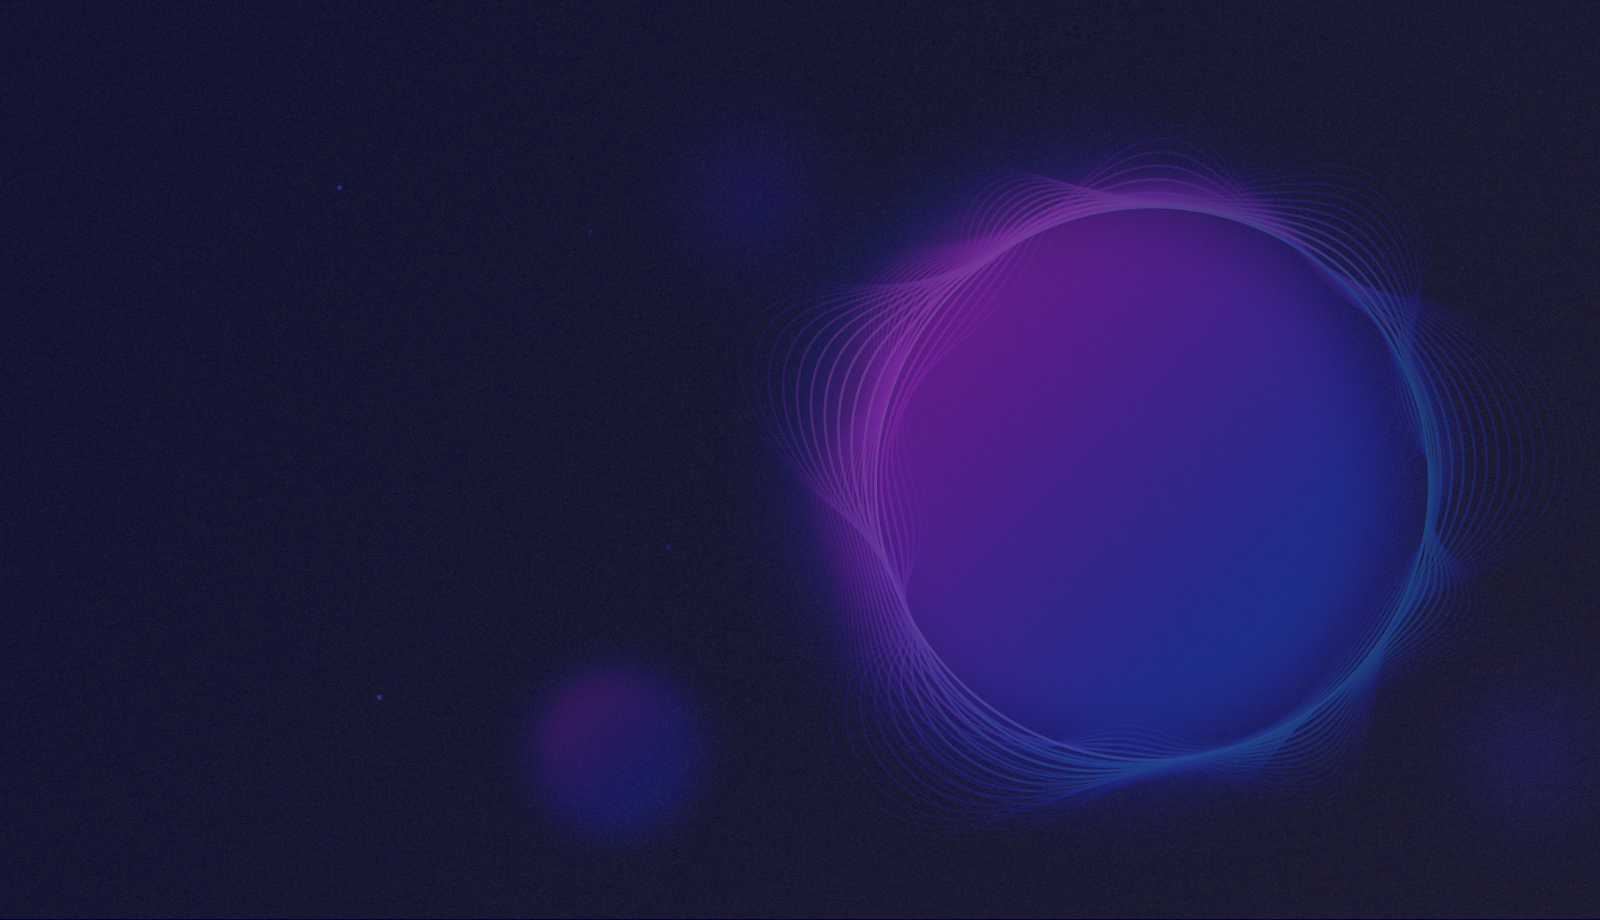
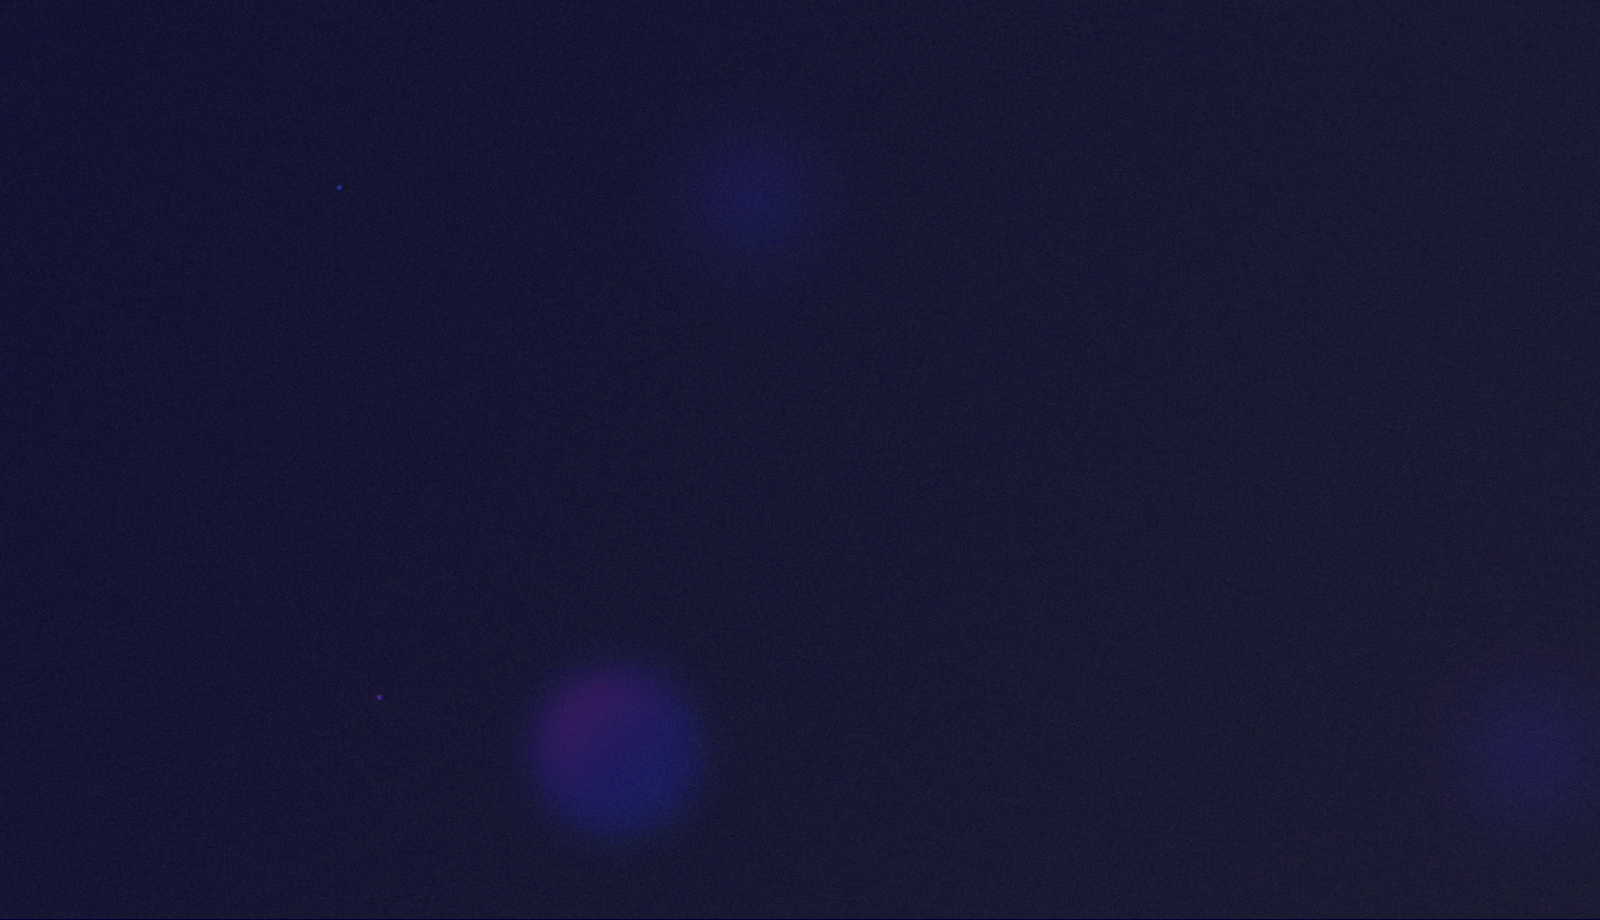
Complete firt slide

Changed region(s): [[0.4688, 0.1522, 0.9688, 0.8826]]

diff --git a/dist/css/style.min.css b/dist/css/style.min.css
@@ -1,1 +1,1 @@
-@charset "UTF-8";@import url(https://fonts.googleapis.com/css?family=Roboto:100,100italic,300,300italic,regular,italic,500,500italic,700,700italic,900,900italic&display=swap&subset=cyrillic-ext);@font-face{font-family:HelveticaNeueCyr;font-display:swap;src:url(../fonts/HelveticaNeueCyr-Bold.woff) format("woff"),url(../fonts/HelveticaNeueCyr-Bold.woff2) format("woff2");font-weight:700;font-style:normal}@font-face{font-family:HelveticaNeueCyr;font-display:swap;src:url(../fonts/HelveticaNeueCyr-Roman.woff) format("woff"),url(../fonts/HelveticaNeueCyr-Roman.woff2) format("woff2");font-weight:400;font-style:normal}@font-face{font-family:NeueMachina;font-display:swap;src:url(../fonts/NeueMachina-Bold.woff) format("woff"),url(../fonts/NeueMachina-Bold.woff2) format("woff2");font-weight:700;font-style:normal}@font-face{font-family:NeueMachina;font-display:swap;src:url(../fonts/NeueMachina-Regular.woff) format("woff"),url(../fonts/NeueMachina-Regular.woff2) format("woff2");font-weight:400;font-style:normal}@font-face{font-family:Roboto;font-display:swap;src:url(../fonts/Roboto-Black.woff) format("woff"),url(../fonts/Roboto-Black.woff2) format("woff2");font-weight:400;font-style:normal}@font-face{font-family:Roboto;font-display:swap;src:url(../fonts/Roboto-Bold.woff) format("woff"),url(../fonts/Roboto-Bold.woff2) format("woff2");font-weight:700;font-style:normal}*,::after,::before{-webkit-box-sizing:border-box;box-sizing:border-box}ol[class],ul[class]{padding:0}blockquote,body,dd,dl,figcaption,figure,h1,h2,h3,h4,li,ol[class],p,ul[class]{margin:0}body{min-height:100vh;scroll-behavior:smooth;text-rendering:optimizeSpeed;line-height:1.5}ol[class],ul[class]{list-style:none}a:not([class]){-webkit-text-decoration-skip:ink;text-decoration-skip-ink:auto}img{max-width:100%;display:block}article>*+*{margin-top:1em}button,input,select,textarea{font:inherit}.wrapper{width:100%;min-height:100%;overflow:hidden;display:-webkit-box;display:-ms-flexbox;display:flex;-webkit-box-orient:vertical;-webkit-box-direction:normal;-ms-flex-direction:column;flex-direction:column}.container{max-width:1240px;margin:0 auto}html{font-size:10px}body{font-size:1.6rem;font-family:HelveticaNeueCyr}.header{height:100px;margin-top:1.5rem;display:-webkit-box;display:-ms-flexbox;display:flex;-webkit-box-pack:center;-ms-flex-pack:center;justify-content:center;-webkit-box-align:center;-ms-flex-align:center;align-items:center;font-family:NeueMachina;position:fixed;width:100%}.header button{outline:0;cursor:pointer}.header__body{width:100%;display:-webkit-box;display:-ms-flexbox;display:flex;-webkit-box-pack:justify;-ms-flex-pack:justify;justify-content:space-between;-webkit-box-align:center;-ms-flex-align:center;align-items:center}.header__left{display:-webkit-box;display:-ms-flexbox;display:flex;-webkit-box-pack:center;-ms-flex-pack:center;justify-content:center}.header__logo{margin:0 3.2rem 0 4.3rem;display:-webkit-box;display:-ms-flexbox;display:flex;-webkit-box-orient:vertical;-webkit-box-direction:normal;-ms-flex-direction:column;flex-direction:column;-webkit-box-pack:center;-ms-flex-pack:center;justify-content:center;-webkit-box-align:center;-ms-flex-align:center;align-items:center}.header__logo span{color:#fff}.header__language{display:-webkit-box;display:-ms-flexbox;display:flex;-webkit-box-pack:center;-ms-flex-pack:center;justify-content:center;-webkit-box-align:center;-ms-flex-align:center;align-items:center}.header__language button{padding:1.1rem;background-color:transparent;border:none;color:#fff;font-size:2.2rem;font-weight:700;line-height:2rem}.header__language button:disabled{opacity:.3}.header__right{display:-webkit-box;display:-ms-flexbox;display:flex;-webkit-box-pack:center;-ms-flex-pack:center;justify-content:center;-webkit-box-align:center;-ms-flex-align:center;align-items:center}.header__phoneNumber{padding:0 5.2rem}.header__phoneNumber a{text-decoration:none;color:#fff;font-size:2.2rem;line-height:2.1rem;letter-spacing:.12rem}.header__button button{margin-top:-.1rem;background-color:transparent;border:solid 1px #fff;color:#fff;padding:2.2rem 4.4rem;border-radius:50px;font-size:1.4rem;line-height:1.3rem;text-transform:uppercase;letter-spacing:.18rem;font-family:HelveticaNeueCyr}.header__burger{width:6.6rem;height:6.6rem;border-radius:50%;margin:0 4.4rem;position:relative;-webkit-box-sizing:border-box;box-sizing:border-box;display:-webkit-box;display:-ms-flexbox;display:flex;-webkit-box-orient:vertical;-webkit-box-direction:normal;-ms-flex-direction:column;flex-direction:column;-webkit-box-pack:center;-ms-flex-pack:center;justify-content:center;-webkit-box-align:center;-ms-flex-align:center;align-items:center;cursor:pointer}.header__burger .border{width:6.6rem;height:6.6rem;border:3px solid #1e4fc6;border-radius:50%;position:absolute;z-index:1}.header__burger::after,.header__burger::before{content:"";display:block;-webkit-box-sizing:border-box;box-sizing:border-box;width:6.6rem;height:6.6rem;border-radius:50%;position:absolute;border:3px solid #15379a;z-index:0}.header__burger::after{top:.5rem;left:-.3rem}.header__burger::before{top:-.3rem;left:.4rem}.header__burger span{display:block;background-color:#fff;height:.2rem;margin:.4rem 0}.header__burger span:first-of-type{width:3.6rem}.header__burger span:last-of-type{width:2.4rem;margin-left:1.1rem}.slide1{min-height:100vh;background-image:url(../img/background.png);background-color:#000032;background-repeat:no-repeat;background-position:center;background-size:cover}@media (max-width:1252px){.container{max-width:970px}}@media (max-width:991.98px){.container{max-width:750px}}@media (max-width:767.98px){.container{max-width:none;padding:0 10px}}@media (prefers-reduced-motion:reduce){*{-webkit-animation-duration:0s!important;animation-duration:0s!important;-webkit-animation-iteration-count:1!important;animation-iteration-count:1!important;-webkit-transition-duration:0s!important;-o-transition-duration:0s!important;transition-duration:0s!important;scroll-behavior:auto!important}}
+@charset "UTF-8";@import url(https://fonts.googleapis.com/css?family=Roboto:100,100italic,300,300italic,regular,italic,500,500italic,700,700italic,900,900italic&display=swap&subset=cyrillic-ext);@font-face{font-family:HelveticaNeueCyr;font-display:swap;src:url(../fonts/HelveticaNeueCyr-Bold.woff) format("woff"),url(../fonts/HelveticaNeueCyr-Bold.woff2) format("woff2");font-weight:700;font-style:normal}@font-face{font-family:HelveticaNeueCyr;font-display:swap;src:url(../fonts/HelveticaNeueCyr-Roman.woff) format("woff"),url(../fonts/HelveticaNeueCyr-Roman.woff2) format("woff2");font-weight:400;font-style:normal}@font-face{font-family:NeueMachina;font-display:swap;src:url(../fonts/NeueMachina-Bold.woff) format("woff"),url(../fonts/NeueMachina-Bold.woff2) format("woff2");font-weight:700;font-style:normal}@font-face{font-family:NeueMachina;font-display:swap;src:url(../fonts/NeueMachina-Regular.woff) format("woff"),url(../fonts/NeueMachina-Regular.woff2) format("woff2");font-weight:400;font-style:normal}@font-face{font-family:Roboto;font-display:swap;src:url(../fonts/Roboto-Black.woff) format("woff"),url(../fonts/Roboto-Black.woff2) format("woff2");font-weight:400;font-style:normal}@font-face{font-family:Roboto;font-display:swap;src:url(../fonts/Roboto-Bold.woff) format("woff"),url(../fonts/Roboto-Bold.woff2) format("woff2");font-weight:700;font-style:normal}*,::after,::before{-webkit-box-sizing:border-box;box-sizing:border-box}ol[class],ul[class]{padding:0}blockquote,body,dd,dl,figcaption,figure,h1,h2,h3,h4,li,ol[class],p,ul[class]{margin:0}body{min-height:100vh;scroll-behavior:smooth;text-rendering:optimizeSpeed;line-height:1.5}ol[class],ul[class]{list-style:none}a:not([class]){-webkit-text-decoration-skip:ink;text-decoration-skip-ink:auto}img{max-width:100%;display:block}article>*+*{margin-top:1em}button,input,select,textarea{font:inherit}.wrapper{width:100%;min-height:100%;overflow:hidden;display:-webkit-box;display:-ms-flexbox;display:flex;-webkit-box-orient:vertical;-webkit-box-direction:normal;-ms-flex-direction:column;flex-direction:column}.container{max-width:1240px;margin:0 auto}html{font-size:10px}body{font-size:1.6rem;font-family:HelveticaNeueCyr}.header{height:100px;margin-top:1.5rem;display:-webkit-box;display:-ms-flexbox;display:flex;-webkit-box-pack:center;-ms-flex-pack:center;justify-content:center;-webkit-box-align:center;-ms-flex-align:center;align-items:center;font-family:NeueMachina;position:fixed;width:100%}.header button{outline:0;cursor:pointer}.header__body{width:100%;display:-webkit-box;display:-ms-flexbox;display:flex;-webkit-box-pack:justify;-ms-flex-pack:justify;justify-content:space-between;-webkit-box-align:center;-ms-flex-align:center;align-items:center}.header__left{display:-webkit-box;display:-ms-flexbox;display:flex;-webkit-box-pack:center;-ms-flex-pack:center;justify-content:center}.header__logo{margin:0 3.2rem 0 4.3rem;display:-webkit-box;display:-ms-flexbox;display:flex;-webkit-box-orient:vertical;-webkit-box-direction:normal;-ms-flex-direction:column;flex-direction:column;-webkit-box-pack:center;-ms-flex-pack:center;justify-content:center;-webkit-box-align:center;-ms-flex-align:center;align-items:center}.header__logo span{color:#fff}.header__language{display:-webkit-box;display:-ms-flexbox;display:flex;-webkit-box-pack:center;-ms-flex-pack:center;justify-content:center;-webkit-box-align:center;-ms-flex-align:center;align-items:center}.header__language button{padding:1.1rem;background-color:transparent;border:none;color:#fff;font-size:2.2rem;font-weight:700;line-height:2rem}.header__language button:disabled{opacity:.3}.header__right{display:-webkit-box;display:-ms-flexbox;display:flex;-webkit-box-pack:center;-ms-flex-pack:center;justify-content:center;-webkit-box-align:center;-ms-flex-align:center;align-items:center}.header__phoneNumber{padding:0 5.2rem}.header__phoneNumber a{text-decoration:none;color:#fff;font-size:2.2rem;line-height:2.1rem;letter-spacing:.12rem}.header__button button{margin-top:-.1rem;background-color:transparent;border:solid 1px #fff;color:#fff;padding:2.2rem 4.4rem;border-radius:50px;font-size:1.4rem;line-height:1.3rem;text-transform:uppercase;letter-spacing:.18rem;font-family:HelveticaNeueCyr}.header__burger{width:6.6rem;height:6.6rem;border-radius:50%;margin:0 4.4rem;position:relative;-webkit-box-sizing:border-box;box-sizing:border-box;display:-webkit-box;display:-ms-flexbox;display:flex;-webkit-box-orient:vertical;-webkit-box-direction:normal;-ms-flex-direction:column;flex-direction:column;-webkit-box-pack:center;-ms-flex-pack:center;justify-content:center;-webkit-box-align:center;-ms-flex-align:center;align-items:center;cursor:pointer}.header__burger .border{width:6.6rem;height:6.6rem;border:3px solid #1e4fc6;border-radius:50%;position:absolute;z-index:1}.header__burger::after,.header__burger::before{content:"";display:block;-webkit-box-sizing:border-box;box-sizing:border-box;width:6.6rem;height:6.6rem;border-radius:50%;position:absolute;border:3px solid #15379a;z-index:0}.header__burger::after{top:.5rem;left:-.3rem}.header__burger::before{top:-.3rem;left:.4rem}.header__burger span{display:block;background-color:#fff;height:.2rem;margin:.4rem 0}.header__burger span:first-of-type{width:3.6rem}.header__burger span:last-of-type{width:2.4rem;margin-left:1.1rem}.slide1{min-height:100vh;background:url(../img/vr.png) right center no-repeat,url(../img/background.png) center/cover no-repeat;font-family:NeueMachina;color:#fff}.slide1 .container{margin:0 auto;padding:0 10rem;max-width:none}.slide1__section{display:-webkit-box;display:-ms-flexbox;display:flex;-webkit-box-orient:vertical;-webkit-box-direction:normal;-ms-flex-direction:column;flex-direction:column;-webkit-box-pack:end;-ms-flex-pack:end;justify-content:flex-end;margin:auto;height:100vh}.slide1__top{display:-webkit-box;display:-ms-flexbox;display:flex;-webkit-box-pack:justify;-ms-flex-pack:justify;justify-content:space-between;margin-bottom:5rem;letter-spacing:-.1rem}.slide1__text{margin-bottom:22.5rem}.slide1__title{font-size:7.1rem;line-height:7.1rem;display:block}.slide1__title--first{margin-bottom:.5rem}.slide1__title--second{margin-left:5.5rem;white-space:nowrap}.slide1__title--second>span{font-weight:700;position:relative}.slide1__title--second>span span{z-index:1;position:relative}.slide1__title--second>span span:last-of-type{font-weight:400}.slide1__title--second>span::before{content:"VR/AR";display:block;position:absolute;color:rgba(2,203,203,.4);top:2px;left:-3px}.slide1__title--second>span::after{content:"VR/AR";display:block;position:absolute;color:rgba(250,51,46,.4);left:3px;top:-2px}.slide1__description{font-size:1.7rem;line-height:2.4rem;color:rgba(255,255,255,.8);font-family:HelveticaNeueCyr;text-transform:uppercase;font-weight:400;display:block;margin-top:5rem;margin-left:5rem;letter-spacing:.069rem}.slide1__img{background:url(../img/vr.png)}.slide1__bottom{font-family:HelveticaNeueCyr;font-weight:700;font-size:1.4rem;-ms-flex-item-align:start;align-self:flex-start;margin-bottom:5.1rem}.slide1__bottom span{padding-left:2rem;letter-spacing:.13rem;margin-left:3rem;position:relative;text-transform:uppercase}.slide1__bottom span:last-of-type{margin-left:4rem}.slide1__bottom span::before{position:absolute;content:"/";color:#1e4fc6;left:0;top:-1rem;font-size:2rem}@media (max-width:1252px){.container{max-width:970px}}@media (max-width:991.98px){.container{max-width:750px}}@media (max-width:767.98px){.container{max-width:none;padding:0 10px}}@media (prefers-reduced-motion:reduce){*{-webkit-animation-duration:0s!important;animation-duration:0s!important;-webkit-animation-iteration-count:1!important;animation-iteration-count:1!important;-webkit-transition-duration:0s!important;-o-transition-duration:0s!important;transition-duration:0s!important;scroll-behavior:auto!important}}

diff --git a/dist/css/style.css b/dist/css/style.css
@@ -365,11 +365,139 @@ body {
 
 .slide1 {
   min-height: 100vh;
-  background-image: url("../img/background.png");
-  background-color: #000032;
-  background-repeat: no-repeat;
-  background-position: center;
-  background-size: cover;
+  background: url(../img/vr.png) right center no-repeat, url(../img/background.png) center/cover no-repeat;
+  font-family: "NeueMachina";
+  color: #ffffff;
+}
+
+.slide1 .container {
+  margin: 0 auto;
+  padding: 0 10rem;
+  max-width: none;
+}
+
+.slide1__section {
+  display: -webkit-box;
+  display: -ms-flexbox;
+  display: flex;
+  -webkit-box-orient: vertical;
+  -webkit-box-direction: normal;
+      -ms-flex-direction: column;
+          flex-direction: column;
+  -webkit-box-pack: end;
+      -ms-flex-pack: end;
+          justify-content: flex-end;
+  margin: auto;
+  height: 100vh;
+}
+
+.slide1__top {
+  display: -webkit-box;
+  display: -ms-flexbox;
+  display: flex;
+  -webkit-box-pack: justify;
+      -ms-flex-pack: justify;
+          justify-content: space-between;
+  margin-bottom: 5rem;
+  letter-spacing: -0.1rem;
+}
+
+.slide1__text {
+  margin-bottom: 22.5rem;
+}
+
+.slide1__title {
+  font-size: 7.1rem;
+  line-height: 7.1rem;
+  display: block;
+}
+
+.slide1__title--first {
+  margin-bottom: 0.5rem;
+}
+
+.slide1__title--second {
+  margin-left: 5.5rem;
+  white-space: nowrap;
+}
+
+.slide1__title--second > span {
+  font-weight: bold;
+  position: relative;
+}
+
+.slide1__title--second > span span {
+  z-index: 1;
+  position: relative;
+}
+
+.slide1__title--second > span span:last-of-type {
+  font-weight: normal;
+}
+
+.slide1__title--second > span::before {
+  content: "VR/AR";
+  display: block;
+  position: absolute;
+  color: rgba(2, 203, 203, 0.4);
+  top: 2px;
+  left: -3px;
+}
+
+.slide1__title--second > span::after {
+  content: "VR/AR";
+  display: block;
+  position: absolute;
+  color: rgba(250, 51, 46, 0.4);
+  left: 3px;
+  top: -2px;
+}
+
+.slide1__description {
+  font-size: 1.7rem;
+  line-height: 2.4rem;
+  color: rgba(255, 255, 255, 0.8);
+  font-family: "HelveticaNeueCyr";
+  text-transform: uppercase;
+  font-weight: normal;
+  display: block;
+  margin-top: 5rem;
+  margin-left: 5rem;
+  letter-spacing: 0.069rem;
+}
+
+.slide1__img {
+  background: url(../img/vr.png);
+}
+
+.slide1__bottom {
+  font-family: "HelveticaNeueCyr";
+  font-weight: bold;
+  font-size: 1.4rem;
+  -ms-flex-item-align: start;
+      align-self: flex-start;
+  margin-bottom: 5.1rem;
+}
+
+.slide1__bottom span {
+  padding-left: 2rem;
+  letter-spacing: 0.13rem;
+  margin-left: 3rem;
+  position: relative;
+  text-transform: uppercase;
+}
+
+.slide1__bottom span:last-of-type {
+  margin-left: 4rem;
+}
+
+.slide1__bottom span::before {
+  position: absolute;
+  content: "/";
+  color: #1e4fc6;
+  left: 0;
+  top: -1rem;
+  font-size: 2rem;
 }
 
 @media (max-width: 1252px) {

diff --git a/#src/scss/slide1.scss b/#src/scss/slide1.scss
@@ -1,8 +1,131 @@
 .slide1 {
 	min-height: 100vh;
-	background-image: url("../img/background.png");
-	background-color: #000032;
-	background-repeat: no-repeat;
-	background-position: center;
-	background-size: cover;
+	background: url(../img/vr.png) right center no-repeat, url(../img/background.png) center / cover no-repeat;
+	// background-image: url("../img/background.png");
+	// background-color: #000032;
+	// background-repeat: no-repeat;
+	// background-position: center;
+	// background-size: cover;
+	font-family: $fontSecond;
+	color: #ffffff;
+
+	.container {
+		margin: 0 auto;
+		padding: 0 10rem;
+		max-width: none;
+	}
+
+	&__section {
+		display: flex;
+		flex-direction: column;
+		justify-content: flex-end;
+		margin: auto;
+		height: 100vh;
+	}
+
+	&__top {
+		display: flex;
+		justify-content: space-between;
+		margin-bottom: 5rem;
+		letter-spacing: -0.1rem;
+	}
+
+	&__text {
+		margin-bottom: 22.5rem;
+	}
+
+	&__title {
+		font-size: 7.1rem;
+		line-height: 7.1rem;
+		display: block;
+
+		&--first {
+			margin-bottom: 0.5rem;
+		}
+
+		&--second {
+			margin-left: 5.5rem;
+			white-space: nowrap;
+
+			> span {
+				font-weight: bold;
+				position: relative;
+
+				span {
+					// position: absolute;
+					z-index: 1;
+					position: relative;
+
+					&:last-of-type {
+						font-weight: normal;
+					}
+				}
+
+				&::before {
+					content: "VR/AR";
+					display: block;
+					position: absolute;
+					color: rgba(#02cbcb, 0.4);
+					top: 2px;
+					left: -3px;
+				}
+
+				&::after {
+					content: "VR/AR";
+					display: block;
+					position: absolute;
+					color: rgba(#fa332e, 0.4);
+					left: 3px;
+					top: -2px;
+				}
+			}
+		}
+	}
+
+	&__description {
+		font-size: 1.7rem;
+		line-height: 2.4rem;
+		color: rgba(#fff, 0.8);
+		font-family: $fontFirst;
+		text-transform: uppercase;
+		font-weight: normal;
+		display: block;
+		margin-top: 5rem;
+		margin-left: 5rem;
+		letter-spacing: 0.069rem;
+	}
+
+	&__img {
+		// margin-bottom: 2.8rem;
+		background: url(../img/vr.png);
+	}
+
+	&__bottom {
+		font-family: $fontFirst;
+		font-weight: bold;
+		font-size: 1.4rem;
+		align-self: flex-start;
+		margin-bottom: 5.1rem;
+
+		span {
+			padding-left: 2rem;
+			letter-spacing: 0.13rem;
+			margin-left: 3rem;
+			position: relative;
+			text-transform: uppercase;
+
+			&:last-of-type {
+				margin-left: 4rem;
+			}
+
+			&::before {
+				position: absolute;
+				content: "/";
+				color: #1e4fc6;
+				left: 0;
+				top: -1rem;
+				font-size: 2rem;
+			}
+		}
+	}
 }

diff --git a/dist/index.html b/dist/index.html
@@ -45,7 +45,32 @@
 			<section class="slide1">
 	<div class="container">
 		<div class="slide1__section">
-
+			<div class="slide1__top">
+				<div class="slide1__text">
+					<span class="slide1__title slide1__title--first">
+						РАЗРАБОТКА
+					</span>
+					<span class="slide1__title slide1__title--second">
+						<span>
+							<span>VR/AR</span>
+							<span>ПРОЕКТОВ</span>
+						</span>
+					</span>
+					<span class="slide1__description">Моделирование и визуализация 3D-объектов<br> в формате виртуальной
+						реальности</span>
+				</div>
+				<div class="slide1__img">
+					<!-- <img src="img/vr.png" alt="vr"> -->
+				</div>
+			</div>
+			<div class="slide1__bottom">
+				<span>
+					Участники фестиваля круг света
+				</span>
+				<span>
+					Cертификат iso 9001
+				</span>
+			</div>
 		</div>
 	</div>
 </section>

diff --git a/#src/_slide1.html b/#src/_slide1.html
@@ -1,7 +1,32 @@
 <section class="slide1">
 	<div class="container">
 		<div class="slide1__section">
-
+			<div class="slide1__top">
+				<div class="slide1__text">
+					<span class="slide1__title slide1__title--first">
+						РАЗРАБОТКА
+					</span>
+					<span class="slide1__title slide1__title--second">
+						<span>
+							<span>VR/AR</span>
+							<span>ПРОЕКТОВ</span>
+						</span>
+					</span>
+					<span class="slide1__description">Моделирование и визуализация 3D-объектов<br> в формате виртуальной
+						реальности</span>
+				</div>
+				<div class="slide1__img">
+					<!-- <img src="img/vr.png" alt="vr"> -->
+				</div>
+			</div>
+			<div class="slide1__bottom">
+				<span>
+					Участники фестиваля круг света
+				</span>
+				<span>
+					Cертификат iso 9001
+				</span>
+			</div>
 		</div>
 	</div>
 </section>
